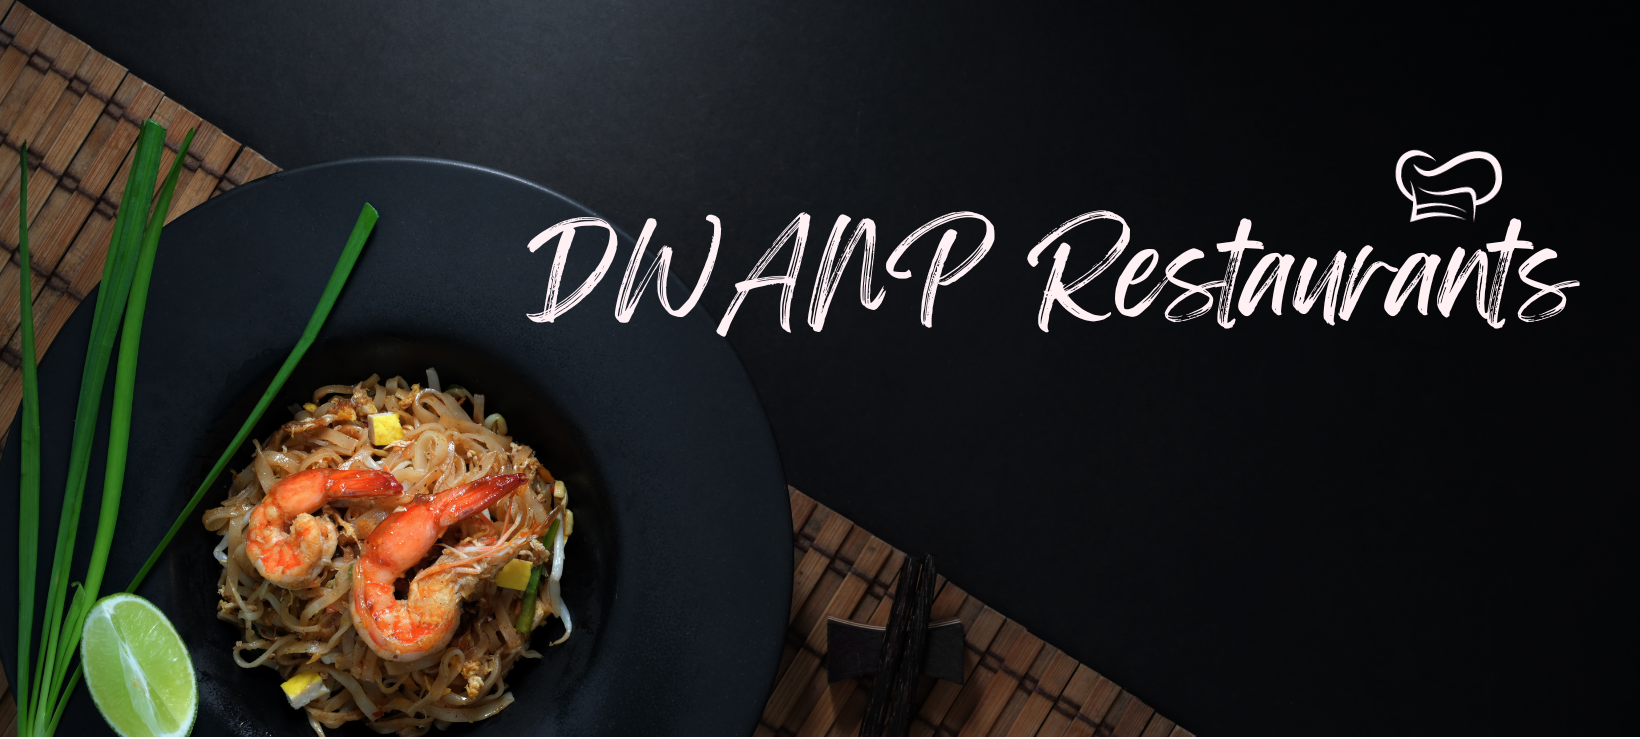
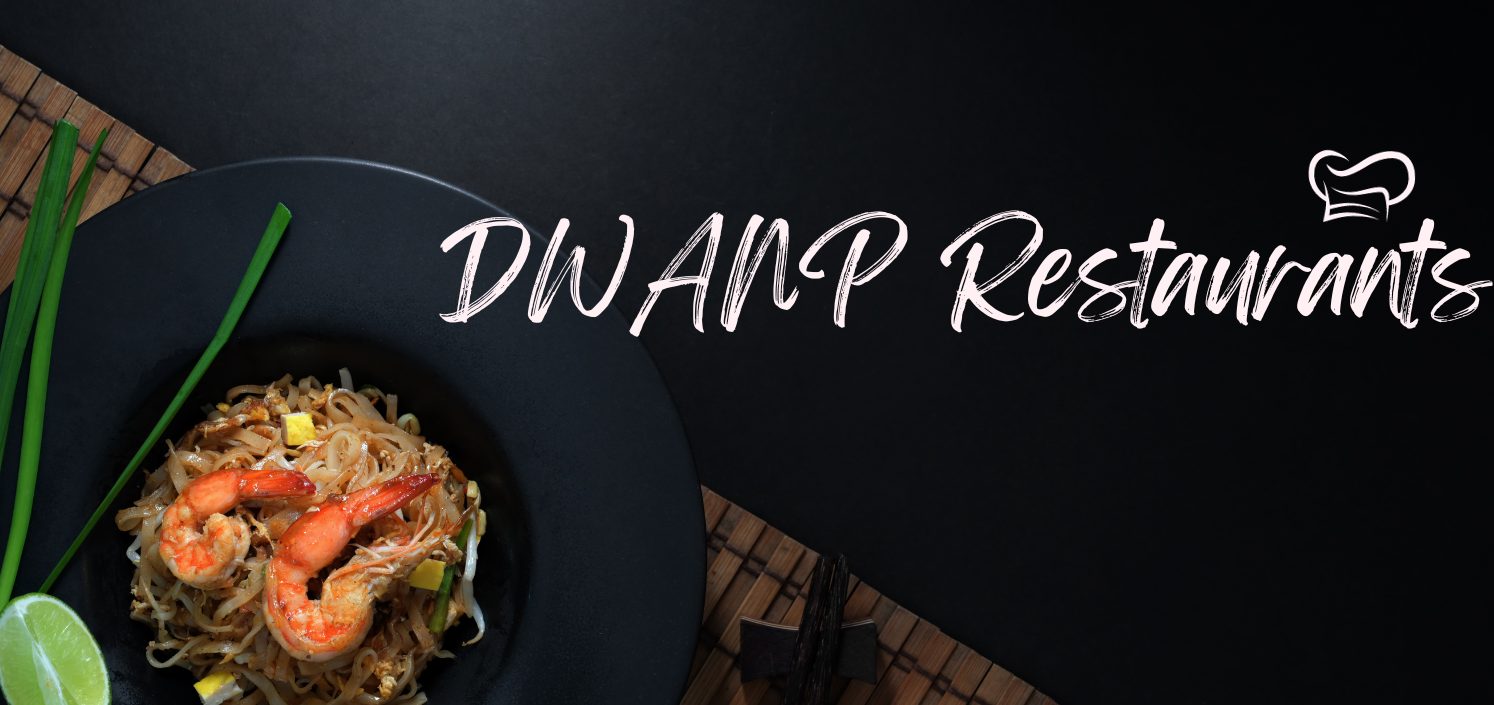
working now

Changed region(s): [[0.0, 0.0, 1.0, 1.0]]

diff --git a/dwanp-frontend/src/Employee-Navindu/Employee.js b/dwanp-frontend/src/Employee-Navindu/Employee.js
@@ -161,7 +161,7 @@ const Employee=()=>
              <Container maxWidth="xl">
   <Box sx={{ display: 'flex', flexDirection: 'column', alignItems: 'center', mt: 0 }}>
     <div style={{ position: 'relative' }}>
-      <img src={posterImage} alt="Poster" style={{ width: '100rem', height: '35rem' }} />
+      <img src={posterImage} alt="Poster" style={{ width: "100%", height: '35rem' }} />
       <h1 style={{
         position: 'absolute',
         top: '22rem',  
